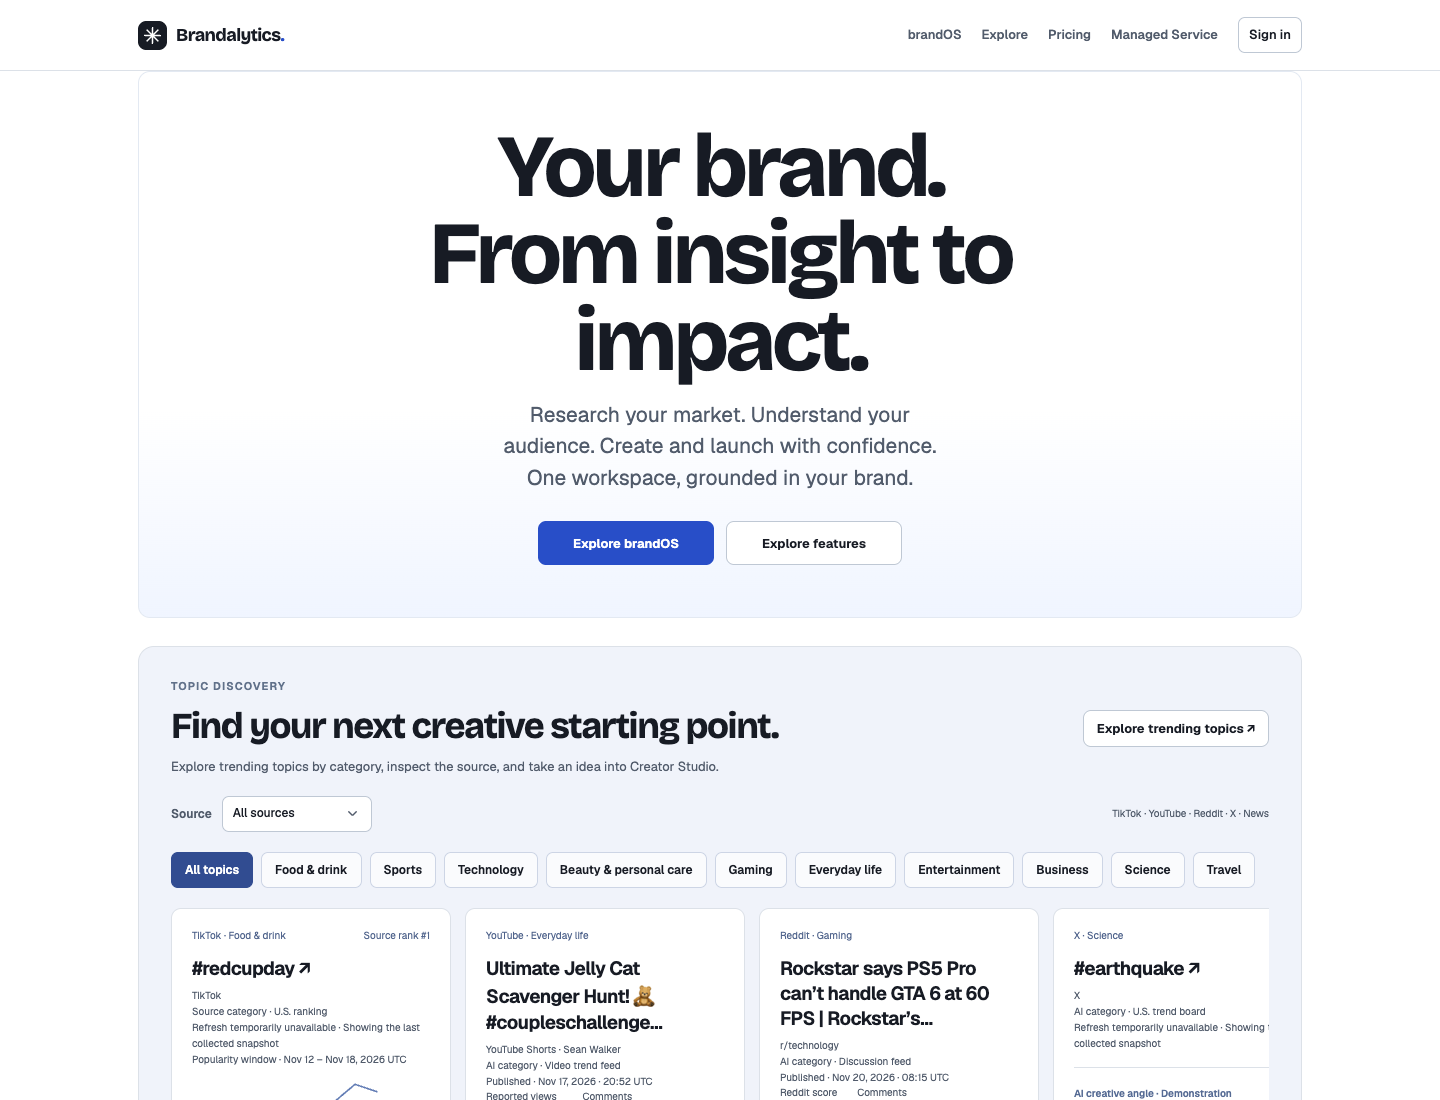
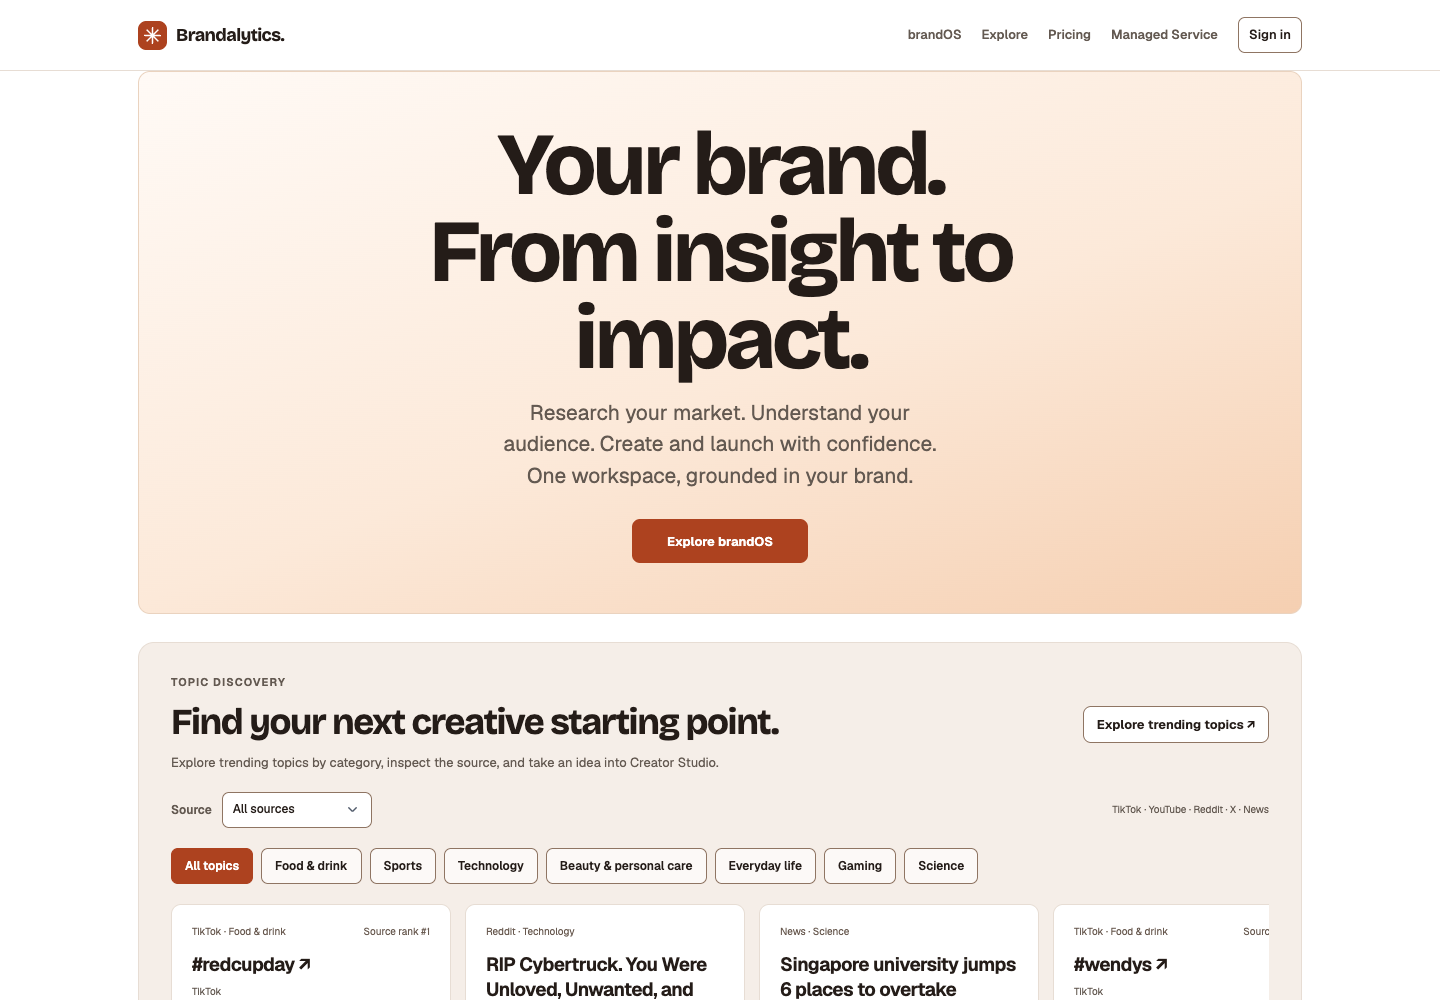
Refresh GowriAI branding and add Cesta partner section

diff --git a/index.html b/index.html
@@ -3,29 +3,29 @@
 <head>
   <meta charset="utf-8" />
   <meta name="viewport" content="width=device-width, initial-scale=1" />
-  <title>GowriAI.Ventures | AI Products &amp; Ventures</title>
+  <title>GowriAI | AI Products &amp; Ventures</title>
   <meta
     name="description"
-    content="GowriAI.Ventures builds and backs AI products for agentic operations, brand marketing, retrieval and memory, cybersecurity, math learning, and engineering and construction."
+    content="GowriAI builds and backs AI products for agentic operations, brand marketing, retrieval and memory, cybersecurity, math learning, and engineering and construction."
   />
   <meta
     name="keywords"
-    content="GowriAI Ventures, AI ventures, applied AI, AI products, Super Intelligence, Yantriks.ai, Brandalytics.ai, AgentFuzz, ThreatVault.ai, Mathz.app, Parametri, NullVectorLab.com, CoreCortex.io"
+    content="GowriAI, AI ventures, applied AI, AI products, Super Intelligence, Yantriks, Brandalytics, AgentFuzz, ThreatVault, Mathz, Parametri, NullVectorLab, CoreCortex"
   />
-  <meta name="author" content="GowriAI.Ventures" />
+  <meta name="author" content="GowriAI" />
   <meta name="robots" content="index, follow, max-image-preview:large, max-snippet:-1, max-video-preview:-1" />
   <meta name="googlebot" content="index, follow, max-image-preview:large, max-snippet:-1, max-video-preview:-1" />
-  <meta name="application-name" content="GowriAI.Ventures" />
+  <meta name="application-name" content="GowriAI" />
   <meta name="theme-color" content="#fbfbf8" />
   <meta name="format-detection" content="telephone=no" />
   <meta name="geo.region" content="US" />
   <meta name="geo.placename" content="United States" />
   <meta property="og:type" content="website" />
-  <meta property="og:site_name" content="GowriAI.Ventures" />
-  <meta property="og:title" content="GowriAI.Ventures" />
+  <meta property="og:site_name" content="GowriAI" />
+  <meta property="og:title" content="GowriAI" />
   <meta
     property="og:description"
-    content="GowriAI.Ventures builds and backs AI products for agentic operations, brand marketing, retrieval and memory, cybersecurity, math learning, and engineering and construction."
+    content="GowriAI builds and backs AI products for agentic operations, brand marketing, retrieval and memory, cybersecurity, math learning, and engineering and construction."
   />
   <meta property="og:url" content="https://gowriai.ventures/" />
   <meta property="og:locale" content="en_US" />
@@ -33,10 +33,10 @@
   <meta property="og:image:width" content="1200" />
   <meta property="og:image:height" content="630" />
   <meta name="twitter:card" content="summary_large_image" />
-  <meta name="twitter:title" content="GowriAI.Ventures" />
+  <meta name="twitter:title" content="GowriAI" />
   <meta
     name="twitter:description"
-    content="GowriAI.Ventures builds and backs AI products for agentic operations, brand marketing, retrieval and memory, cybersecurity, math learning, and engineering and construction."
+    content="GowriAI builds and backs AI products for agentic operations, brand marketing, retrieval and memory, cybersecurity, math learning, and engineering and construction."
   />
   <meta name="twitter:image" content="https://gowriai.ventures/assets/images/og-image.png" />
   <link rel="canonical" href="https://gowriai.ventures/" />
@@ -47,9 +47,9 @@
     {
       "@context": "https://schema.org",
       "@type": "Organization",
-      "name": "GowriAI.Ventures",
+      "name": "GowriAI",
       "url": "https://gowriai.ventures/",
-      "description": "GowriAI.Ventures builds and backs AI products for agentic operations, brand marketing, retrieval and memory, cybersecurity, math learning, and engineering and construction.",
+      "description": "GowriAI builds and backs AI products for agentic operations, brand marketing, retrieval and memory, cybersecurity, math learning, and engineering and construction.",
       "sameAs": [
         "https://github.com/GowriAI-Ventures",
         "https://linkedin.com/company/gowriai"
@@ -63,7 +63,7 @@
             "position": 1,
             "item": {
               "@type": "SoftwareApplication",
-              "name": "Yantriks.ai",
+              "name": "Yantriks",
               "url": "https://yantriks.ai/",
               "description": "Agentic operations that learn from past team decisions, gather facts, run checks, and prepare next steps for human review."
             }
@@ -73,7 +73,7 @@
             "position": 2,
             "item": {
               "@type": "SoftwareApplication",
-              "name": "Brandalytics.ai",
+              "name": "Brandalytics",
               "url": "https://brandalytics.ai/",
               "description": "A shared workspace for AI-powered brand research, campaign creation, and creative review, with brand context, guideline checks, and approvals."
             }
@@ -83,7 +83,7 @@
             "position": 3,
             "item": {
               "@type": "SoftwareApplication",
-              "name": "CoreCortex.io",
+              "name": "CoreCortex",
               "url": "https://corecortex.io/",
               "description": "An evidence-first memory engine for building retrieval systems you can inspect, measure, and improve across real AI knowledge workflows."
             }
@@ -93,7 +93,7 @@
             "position": 4,
             "item": {
               "@type": "SoftwareApplication",
-              "name": "ThreatVault.ai",
+              "name": "ThreatVault",
               "url": "https://threatvault.ai",
               "description": "Curated AI threat intelligence, adversarial technique libraries, and automated coverage analysis for teams securing AI systems."
             }
@@ -103,7 +103,7 @@
             "position": 5,
             "item": {
               "@type": "SoftwareApplication",
-              "name": "AgentFuzz.ai",
+              "name": "AgentFuzz",
               "url": "https://agentfuzz.ai",
               "description": "AI vulnerability assessment and assurance for AI systems, aligned with OWASP LLM Top 10 and NIST AI RMF to identify prompt injection, data leakage, and emerging risks."
             }
@@ -113,7 +113,7 @@
             "position": 6,
             "item": {
               "@type": "SoftwareApplication",
-              "name": "Mathz.app",
+              "name": "Mathz",
               "url": "https://mathz.app",
               "description": "Interactive math lessons from Algebra to Calculus where sliders, graphs, and direct manipulation build real intuition."
             }
@@ -123,7 +123,7 @@
             "position": 7,
             "item": {
               "@type": "SoftwareApplication",
-              "name": "Parametri.ai",
+              "name": "Parametri",
               "url": "https://parametri.ai/",
               "description": "Transform blueprints and floor plans into intelligent, interactive documents with AI-powered text extraction, object detection, and design analysis."
             }
@@ -133,7 +133,7 @@
             "position": 8,
             "item": {
               "@type": "SoftwareApplication",
-              "name": "NullVectorLab.com",
+              "name": "NullVectorLab",
               "url": "https://nullvectorlab.com/",
               "description": "AI-native cybersecurity platform and services that unify threat intelligence, AI/LLM security, human risk, and risk prioritization into one operating layer."
             }
@@ -480,6 +480,35 @@
       background: var(--panel);
     }
 
+    .partner-card {
+      padding: 24px;
+      border: 1px solid var(--line);
+      border-radius: var(--radius);
+      background: var(--panel);
+    }
+
+    .partner-card h3 {
+      margin: 0 0 12px;
+      font-size: 1.2rem;
+    }
+
+    .partner-card .button {
+      margin-top: 16px;
+    }
+
+    .partner-logo {
+      display: inline-block;
+      padding: 12px;
+      margin-bottom: 16px;
+      border-radius: 12px;
+      background: #141413;
+    }
+
+    .partner-logo img {
+      width: 120px;
+      height: auto;
+    }
+
     .person-top {
       display: flex;
       align-items: start;
@@ -604,13 +633,14 @@
 <body>
     <div class="page">
     <header class="topbar">
-      <a class="brand" href="/" aria-label="GowriAI.Ventures home">
-        <span class="brand-mark" aria-hidden="true">GV</span>
-        <span>GowriAI.Ventures</span>
+      <a class="brand" href="/" aria-label="GowriAI home">
+        <span class="brand-mark" aria-hidden="true">G</span>
+        <span>GowriAI</span>
       </a>
       <nav class="nav" aria-label="Primary">
         <a href="#initiatives">Initiatives</a>
         <a href="#capabilities">Capabilities</a>
+        <a href="#partners">Partners</a>
         <a href="#about">About Us</a>
         <a href="mailto:hello@gowriai.ventures">Contact</a>
       </nav>
@@ -623,7 +653,7 @@
         <div class="hero-grid">
           <div>
             <p class="lead">
-              GowriAI.Ventures builds and backs AI products for agentic operations, brand marketing, retrieval and memory,
+              GowriAI builds and backs AI products for agentic operations, brand marketing, retrieval and memory,
               cybersecurity, math learning, and engineering and construction. It is a holding
               and investment venture supporting multiple products and initiatives.
             </p>
@@ -682,22 +712,22 @@
         </div>
         <div class="initiatives" id="initiative-grid">
           <article class="initiative">
-            <a class="initiative-shot" href="https://yantriks.ai/" rel="noopener" target="_blank" aria-label="Yantriks.ai">
-              <img src="./assets/images/initiatives/yantriks-ai.png" alt="Yantriks.ai preview" />
+            <a class="initiative-shot" href="https://yantriks.ai/" rel="noopener" target="_blank" aria-label="Yantriks">
+              <img src="./assets/images/initiatives/yantriks-ai.png" alt="Yantriks preview" />
             </a>
             <div class="initiative-head">
-              <h3><a class="initiative-title-link" href="https://yantriks.ai/" rel="noopener" target="_blank">Yantriks.ai</a></h3>
+              <h3><a class="initiative-title-link" href="https://yantriks.ai/" rel="noopener" target="_blank">Yantriks</a></h3>
             </div>
             <p>Agentic operations that learn from past team decisions, gather facts, run checks, and prepare next steps for human review.</p>
             <div class="meta"><span class="pill">Agentic Operations</span><span class="pill">Workflow Automation</span><span class="pill">Decision Support</span></div>
             <div class="link-row"></div>
           </article>
           <article class="initiative">
-            <a class="initiative-shot" href="https://brandalytics.ai/" rel="noopener" target="_blank" aria-label="Brandalytics.ai">
-              <img src="./assets/images/initiatives/brandalytics-ai.png" alt="Brandalytics.ai preview" />
+            <a class="initiative-shot" href="https://brandalytics.ai/" rel="noopener" target="_blank" aria-label="Brandalytics">
+              <img src="./assets/images/initiatives/brandalytics-ai.png" alt="Brandalytics preview" />
             </a>
             <div class="initiative-head">
-              <h3><a class="initiative-title-link" href="https://brandalytics.ai/" rel="noopener" target="_blank">Brandalytics.ai</a></h3>
+              <h3><a class="initiative-title-link" href="https://brandalytics.ai/" rel="noopener" target="_blank">Brandalytics</a></h3>
             </div>
             <p>A shared workspace for AI-powered brand research, campaign creation, and creative review, with brand context, guideline checks, and approvals.</p>
             <div class="meta"><span class="pill">Brand Research</span><span class="pill">Campaign Creation</span><span class="pill">Creative Review</span></div>
@@ -706,11 +736,11 @@
             </div>
           </article>
           <article class="initiative">
-            <a class="initiative-shot" href="https://corecortex.io/" rel="noopener" target="_blank" aria-label="CoreCortex.io">
-              <img src="./assets/images/initiatives/corecortex-io.png" alt="CoreCortex.io preview" />
+            <a class="initiative-shot" href="https://corecortex.io/" rel="noopener" target="_blank" aria-label="CoreCortex">
+              <img src="./assets/images/initiatives/corecortex-io.png" alt="CoreCortex preview" />
             </a>
             <div class="initiative-head">
-              <h3><a class="initiative-title-link" href="https://corecortex.io/" rel="noopener" target="_blank">CoreCortex.io</a></h3>
+              <h3><a class="initiative-title-link" href="https://corecortex.io/" rel="noopener" target="_blank">CoreCortex</a></h3>
             </div>
             <p>An evidence-first memory engine for building retrieval systems you can inspect, measure, and improve across real AI knowledge workflows.</p>
             <div class="meta"><span class="pill">Retrieval Systems</span><span class="pill">Memory Engine</span><span class="pill">Evidence-First AI</span></div>
@@ -719,11 +749,11 @@
             </div>
           </article>
           <article class="initiative">
-            <a class="initiative-shot" href="https://threatvault.ai" rel="noopener" target="_blank" aria-label="ThreatVault.ai">
-              <img src="./assets/images/initiatives/threatvault-ai.png" alt="ThreatVault.ai preview" />
+            <a class="initiative-shot" href="https://threatvault.ai" rel="noopener" target="_blank" aria-label="ThreatVault">
+              <img src="./assets/images/initiatives/threatvault-ai.png" alt="ThreatVault preview" />
             </a>
             <div class="initiative-head">
-              <h3><a class="initiative-title-link" href="https://threatvault.ai" rel="noopener" target="_blank">ThreatVault.ai</a></h3>
+              <h3><a class="initiative-title-link" href="https://threatvault.ai" rel="noopener" target="_blank">ThreatVault</a></h3>
             </div>
             <p>Curated AI threat intelligence, adversarial technique libraries, and automated coverage analysis for teams securing AI systems.</p>
             <div class="meta"><span class="pill">Threat Intelligence</span><span class="pill">AI Security</span><span class="pill">Coverage Analysis</span></div>
@@ -732,11 +762,11 @@
             </div>
           </article>
           <article class="initiative">
-            <a class="initiative-shot" href="https://agentfuzz.ai" rel="noopener" target="_blank" aria-label="AgentFuzz.ai">
-              <img src="./assets/images/initiatives/agentfuzz-ai.png" alt="AgentFuzz.ai preview" />
+            <a class="initiative-shot" href="https://agentfuzz.ai" rel="noopener" target="_blank" aria-label="AgentFuzz">
+              <img src="./assets/images/initiatives/agentfuzz-ai.png" alt="AgentFuzz preview" />
             </a>
             <div class="initiative-head">
-              <h3><a class="initiative-title-link" href="https://agentfuzz.ai" rel="noopener" target="_blank">AgentFuzz.ai</a></h3>
+              <h3><a class="initiative-title-link" href="https://agentfuzz.ai" rel="noopener" target="_blank">AgentFuzz</a></h3>
             </div>
             <p>AI vulnerability assessment and assurance for AI systems, aligned with OWASP LLM Top 10 and NIST AI RMF to identify prompt injection, data leakage, and emerging risks.</p>
             <div class="meta"><span class="pill">AI Security</span><span class="pill">Vulnerability Assessment</span><span class="pill">Assurance</span></div>
@@ -745,11 +775,11 @@
             </div>
           </article>
           <article class="initiative">
-            <a class="initiative-shot" href="https://mathz.app" rel="noopener" target="_blank" aria-label="Mathz.app">
-              <img src="./assets/images/initiatives/mathz-app.png" alt="Mathz.app preview" />
+            <a class="initiative-shot" href="https://mathz.app" rel="noopener" target="_blank" aria-label="Mathz">
+              <img src="./assets/images/initiatives/mathz-app.png" alt="Mathz preview" />
             </a>
             <div class="initiative-head">
-              <h3><a class="initiative-title-link" href="https://mathz.app" rel="noopener" target="_blank">Mathz.app</a></h3>
+              <h3><a class="initiative-title-link" href="https://mathz.app" rel="noopener" target="_blank">Mathz</a></h3>
             </div>
             <p>Interactive math lessons from Algebra to Calculus where sliders, graphs, and direct manipulation build real intuition.</p>
             <div class="meta"><span class="pill">Interactive Learning</span><span class="pill">Algebra to Calculus</span><span class="pill">Math Intuition</span></div>
@@ -758,11 +788,11 @@
             </div>
           </article>
           <article class="initiative">
-            <a class="initiative-shot" href="https://parametri.ai/" rel="noopener" target="_blank" aria-label="Parametri.ai">
-              <img src="./assets/images/initiatives/parametri-ai.png" alt="Parametri.ai preview" />
+            <a class="initiative-shot" href="https://parametri.ai/" rel="noopener" target="_blank" aria-label="Parametri">
+              <img src="./assets/images/initiatives/parametri-ai.png" alt="Parametri preview" />
             </a>
             <div class="initiative-head">
-              <h3><a class="initiative-title-link" href="https://parametri.ai/" rel="noopener" target="_blank">Parametri.ai</a></h3>
+              <h3><a class="initiative-title-link" href="https://parametri.ai/" rel="noopener" target="_blank">Parametri</a></h3>
             </div>
             <p>Transform blueprints and floor plans into intelligent, interactive documents with AI-powered text extraction, object detection, and design analysis.</p>
             <div class="meta"><span class="pill">Blueprint AI</span><span class="pill">Document Intelligence</span><span class="pill">Design Analysis</span></div>
@@ -771,11 +801,11 @@
             </div>
           </article>
           <article class="initiative">
-            <a class="initiative-shot" href="https://nullvectorlab.com/" rel="noopener" target="_blank" aria-label="NullVectorLab.com">
-              <img src="./assets/images/initiatives/nullvectorlab-com.png" alt="NullVectorLab.com preview" />
+            <a class="initiative-shot" href="https://nullvectorlab.com/" rel="noopener" target="_blank" aria-label="NullVectorLab">
+              <img src="./assets/images/initiatives/nullvectorlab-com.png" alt="NullVectorLab preview" />
             </a>
             <div class="initiative-head">
-              <h3><a class="initiative-title-link" href="https://nullvectorlab.com/" rel="noopener" target="_blank">NullVectorLab.com</a></h3>
+              <h3><a class="initiative-title-link" href="https://nullvectorlab.com/" rel="noopener" target="_blank">NullVectorLab</a></h3>
             </div>
             <p>AI-native cybersecurity platform and services that unify threat intelligence, AI/LLM security, human risk, and risk prioritization into one operating layer.</p>
             <div class="meta"><span class="pill">AI Security</span><span class="pill">Threat Intelligence</span><span class="pill">Cybersecurity Platform</span></div>
@@ -786,11 +816,28 @@
         </div>
       </section>
 
+      <section class="section" id="partners" aria-labelledby="partners-title">
+        <div class="section-header">
+          <h2 id="partners-title">Partners</h2>
+          <article class="partner-card">
+            <a class="partner-logo" href="https://cestatech.com/" target="_blank" rel="noopener" aria-label="Cesta Inc. website">
+              <img src="./assets/images/cesta-logo.png" alt="Cesta Inc." width="3937" height="3543" loading="lazy" />
+            </a>
+            <h3><a href="https://cestatech.com/" target="_blank" rel="noopener">Cesta Inc.</a></h3>
+            <p>
+              In partnership with Cesta Inc., a technology company working across
+              AI, software development, and cybersecurity.
+            </p>
+            <a class="button button-secondary" href="https://cestatech.com/" target="_blank" rel="noopener">Explore Cesta</a>
+          </article>
+        </div>
+      </section>
+
       <section class="section" id="about" aria-labelledby="about-title">
         <div class="section-header">
           <h2 id="about-title">About Us</h2>
           <p>
-            GowriAI.Ventures builds and backs AI-powered products and businesses.
+            GowriAI builds and backs AI-powered products and businesses.
             We combine product development, technical expertise, and investment to
             grow a portfolio of initiatives, developed directly and through partnerships.
           </p>
@@ -799,8 +846,8 @@
         <div class="section-header">
           <h3 id="leadership-title">Leadership</h3>
           <p>
-            GowriAI.Ventures is led by Manoj Bharadwaj, CEO, and Aarti Bharadwaj, COO. They also co-founded
-            <a href="https://cloudcosmos.tech/" rel="noopener" target="_blank">CloudCosmos</a>, the associated services company, while GowriAI.Ventures remains the product and venture platform.
+            GowriAI is led by Manoj Bharadwaj, CEO, and Aarti Bharadwaj, COO. They also co-founded
+            <a href="https://cloudcosmos.tech/" rel="noopener" target="_blank">CloudCosmos</a>, the associated services company, while GowriAI remains the product and venture platform.
           </p>
         </div>
         <div class="team" id="leadership-grid">
@@ -842,7 +889,7 @@
             </div>
             <h4>Ahi Bharadwaj</h4>
             <p class="person-role">Brand &amp; Marketing Strategist</p>
-            <p>Oversees brand and marketing strategy for GowriAI.Ventures and all its initiatives, with a special focus on <a href="https://brandalytics.ai/" rel="noopener" target="_blank">Brandalytics.ai</a>.</p>
+            <p>Oversees brand and marketing strategy for GowriAI and all its initiatives, with a special focus on <a href="https://brandalytics.ai/" rel="noopener" target="_blank">Brandalytics</a>.</p>
           </article>
         </div>
       </section>
@@ -850,7 +897,7 @@
     </main>
 
     <footer class="footer">
-      <span>© <span id="year">2026</span> GowriAI.Ventures</span>
+      <span>© <span id="year">2026</span> GowriAI</span>
       <div class="footer-links">
         <a href="https://github.com/GowriAI-Ventures" rel="noopener" target="_blank">GitHub</a>
         <a href="https://linkedin.com/company/gowriai" rel="noopener" target="_blank">LinkedIn</a>

diff --git a/README.md b/README.md
@@ -1,4 +1,4 @@
-# GowriAI.Ventures Website
+# GowriAI Website
 
 Static website deployed through GitHub Pages. Run `make serve` to preview at
 http://localhost:8000. No build step is required.
